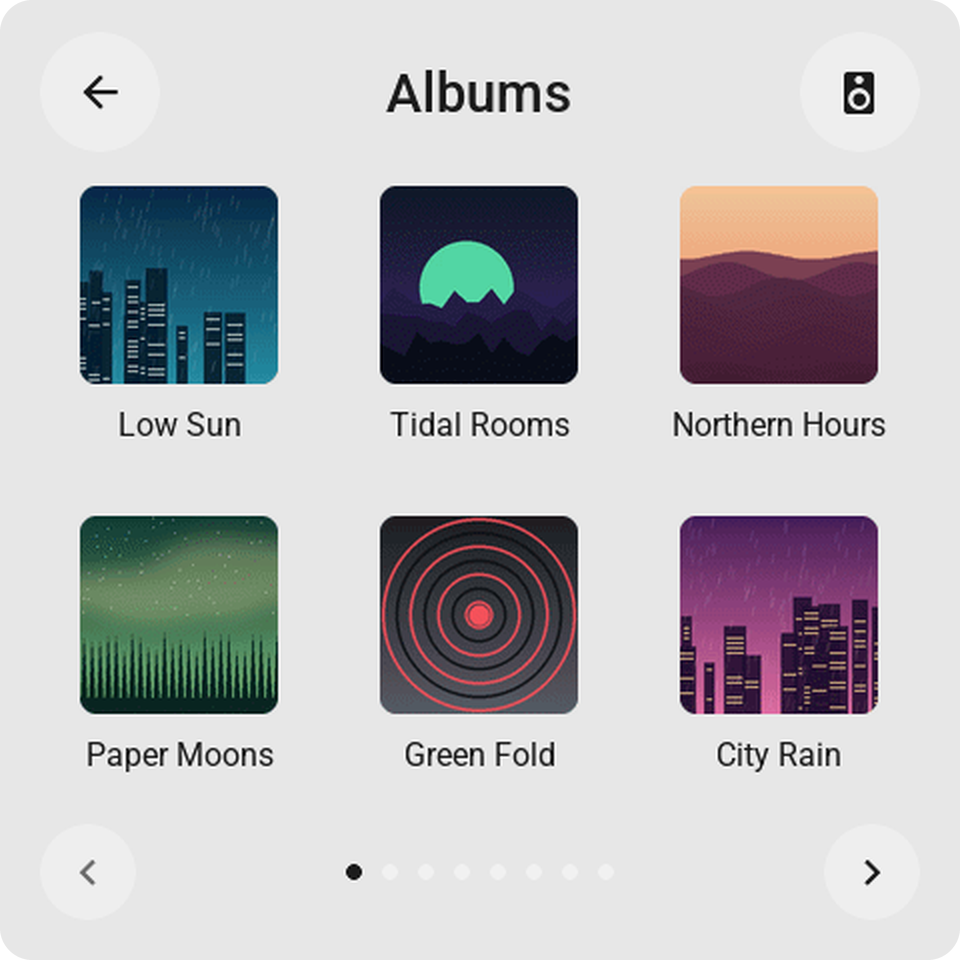
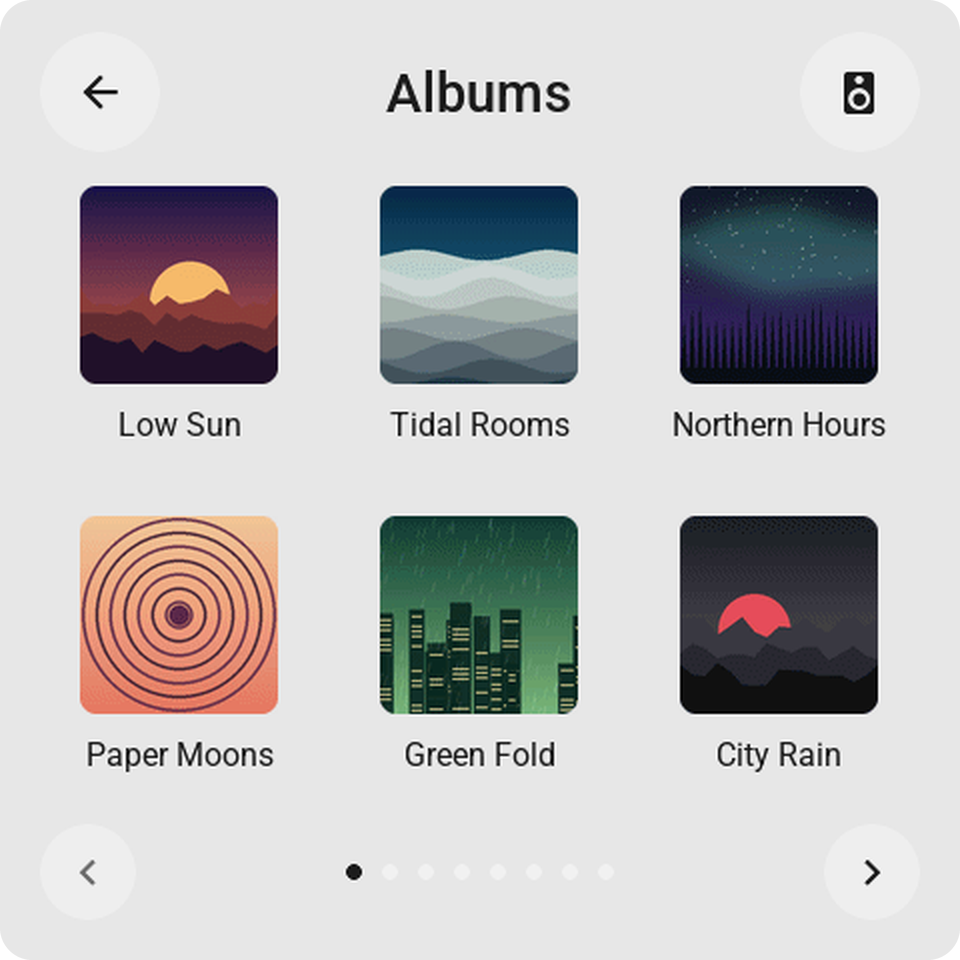
Media renders: every album its own title and cover, the card's album the same picture everywhere

diff --git a/tools/render/run.py b/tools/render/run.py
@@ -1249,7 +1249,9 @@ class Run:
                     if atlas is None:
                         faults.append(f'the covers were asked for with frames the app refuses: {data["atlas"][:120]}')
                         continue
-                    body = tile_art.encode([picture(t) for t in tokens], [int(data['bg'], 16)] * len(tokens), atlas, compact=True)
+                    # Each album keeps its own cover: the one the card plays from (Low Sun) is the same picture here.
+                    seeds = [int(((shelf.get(ENTITY, t) or {}).get('id') or f':{t}').rsplit(':', 1)[1]) for t in tokens]
+                    body = tile_art.encode([picture(n) for n in seeds], [int(data['bg'], 16)] * len(tokens), atlas, compact=True)
                     url = self.pictures.url(f'{self.item.key}-lib-{served["art"]}.bmp', body)
                     served['art'] += 1
                     await self.send({'v': 1, 'op': 'camera', 't': 'lib', 'e': ENTITY, 'u': url, 'view': int(data['view'])})
@@ -1279,7 +1281,8 @@ class Run:
                for name, kind in zip(folders, classes)]}
         albums = {'title': 'Albums', 'children': [{'title': title, 'media_class': 'album', 'media_content_type': 'spotify://album',
                   'media_content_id': f'spotify:album:{n}', 'can_play': True, 'can_expand': True, 'thumbnail': f'https://i.scdn.co/image/{n}'}
-                  for n, title in enumerate(([title for title, _ in media_art.ALBUMS[:7]] + ['An Extra Long Album Title That Needs Two Lines And More']) * 6)]}
+                  for n, title in enumerate(([title for title, _ in media_art.ALBUMS[:7]] + [media_art.LONG_ALBUM] + [title for title, _ in media_art.ALBUMS[7:]]) * 2)
+                  if n < 48]}
         async def answer_browse(since):
             sent = await call_for('esphome.screen_browse', since)
             data = dict(sent.data)
@@ -1444,7 +1447,9 @@ class Run:
                     faults.append(f'the favourites asked for their pictures without frames the app takes: {data}')
                     continue
                 indexes = [int(n) for n in data['idx'].split(',')]
-                body = tile_art.encode([picture(i + 3) for i in indexes], [int(g, 16) for g in data['bg'].split(',')], atlas, compact=True)
+                # Low Sun and the player that plays from it share the card's cover; the playlists have their own.
+                seeds = {0: 0, 1: 2, 2: 6, 4: 0}
+                body = tile_art.encode([picture(seeds.get(i, i + 3)) for i in indexes], [int(g, 16) for g in data['bg'].split(',')], atlas, compact=True)
                 url = self.pictures.url(f'{self.item.key}-strip-{served["art"]}.bmp', body)
                 served['art'] += 1
                 await self.send({'v': 1, 'op': 'camera', 't': 'live', 'e': data['tiles'], 'u': url, 'view': int(data['view'])})

diff --git a/tools/render/media_art.py b/tools/render/media_art.py
@@ -27,7 +27,13 @@ PALETTES = [
 ALBUMS = [('Low Sun', 'Nova Coast'), ('Tidal Rooms', 'Harbour Lights'), ('Northern Hours', 'Aurora Field'),
           ('Paper Moons', 'The Quiet Kind'), ('Green Fold', 'Willow & Fern'), ('City Rain', 'Night Tram'),
           ('Velvet Hours', 'Juno Bay'), ('Glass Garden', 'Winter Arcade'), ('Slow Orbit', 'Satellite Choir'),
-          ('Afterglow', 'Nova Coast'), ('Small Rooms', 'Lena Vos'), ('Static Bloom', 'Paper Planes')]
+          ('Afterglow', 'Nova Coast'), ('Small Rooms', 'Lena Vos'), ('Static Bloom', 'Paper Planes'),
+          ('Salt & Cedar', 'Harbour Lights'), ('Blue Hour', 'Juno Bay'), ('Open Water', 'Aurora Field'),
+          ('Late Bloomers', 'The Quiet Kind'), ('Copper Sky', 'Night Tram'), ('Field Notes', 'Willow & Fern'),
+          ('Lanterns', 'Winter Arcade'), ('Sea Glass', 'Lena Vos'), ('Neon Harbour', 'Satellite Choir'),
+          ('Morning Tide', 'Paper Planes'), ('Quiet Engines', 'Night Tram'), ('Snowline', 'Aurora Field')]
+# One title long enough to need two lines, the way real ones do.
+LONG_ALBUM = 'Songs for the Long Way Home, Part Two'
 PLAYLISTS = ['Sunday Morning', 'Deep Focus', 'Dinner Party', 'Road Trip', 'Rainy Day', 'Late Night Jazz', 'Workout', 'Wind Down']
 
 
